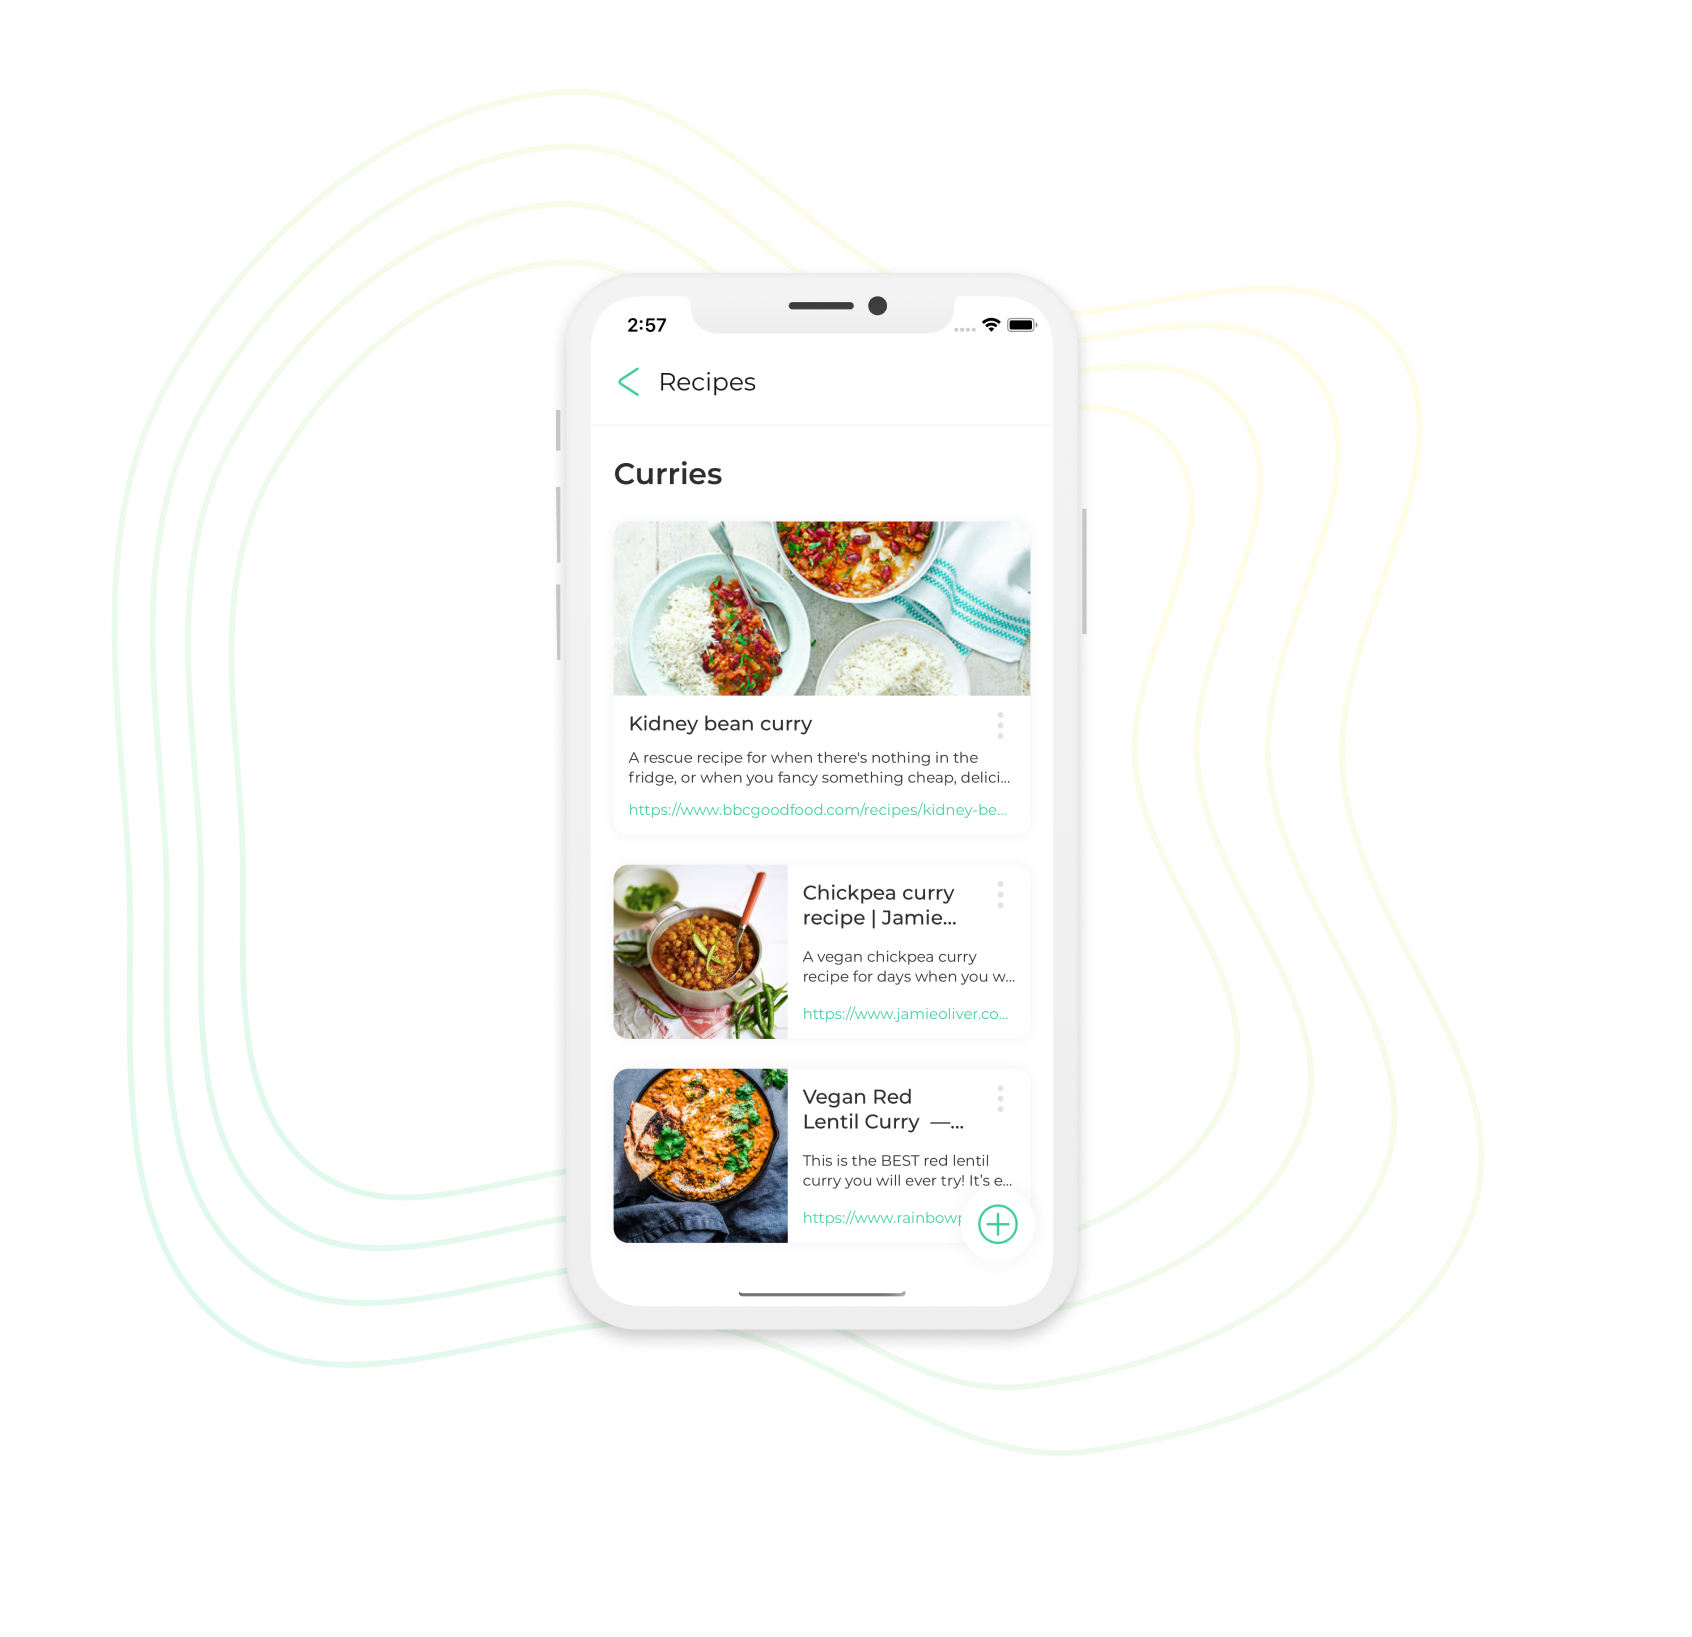
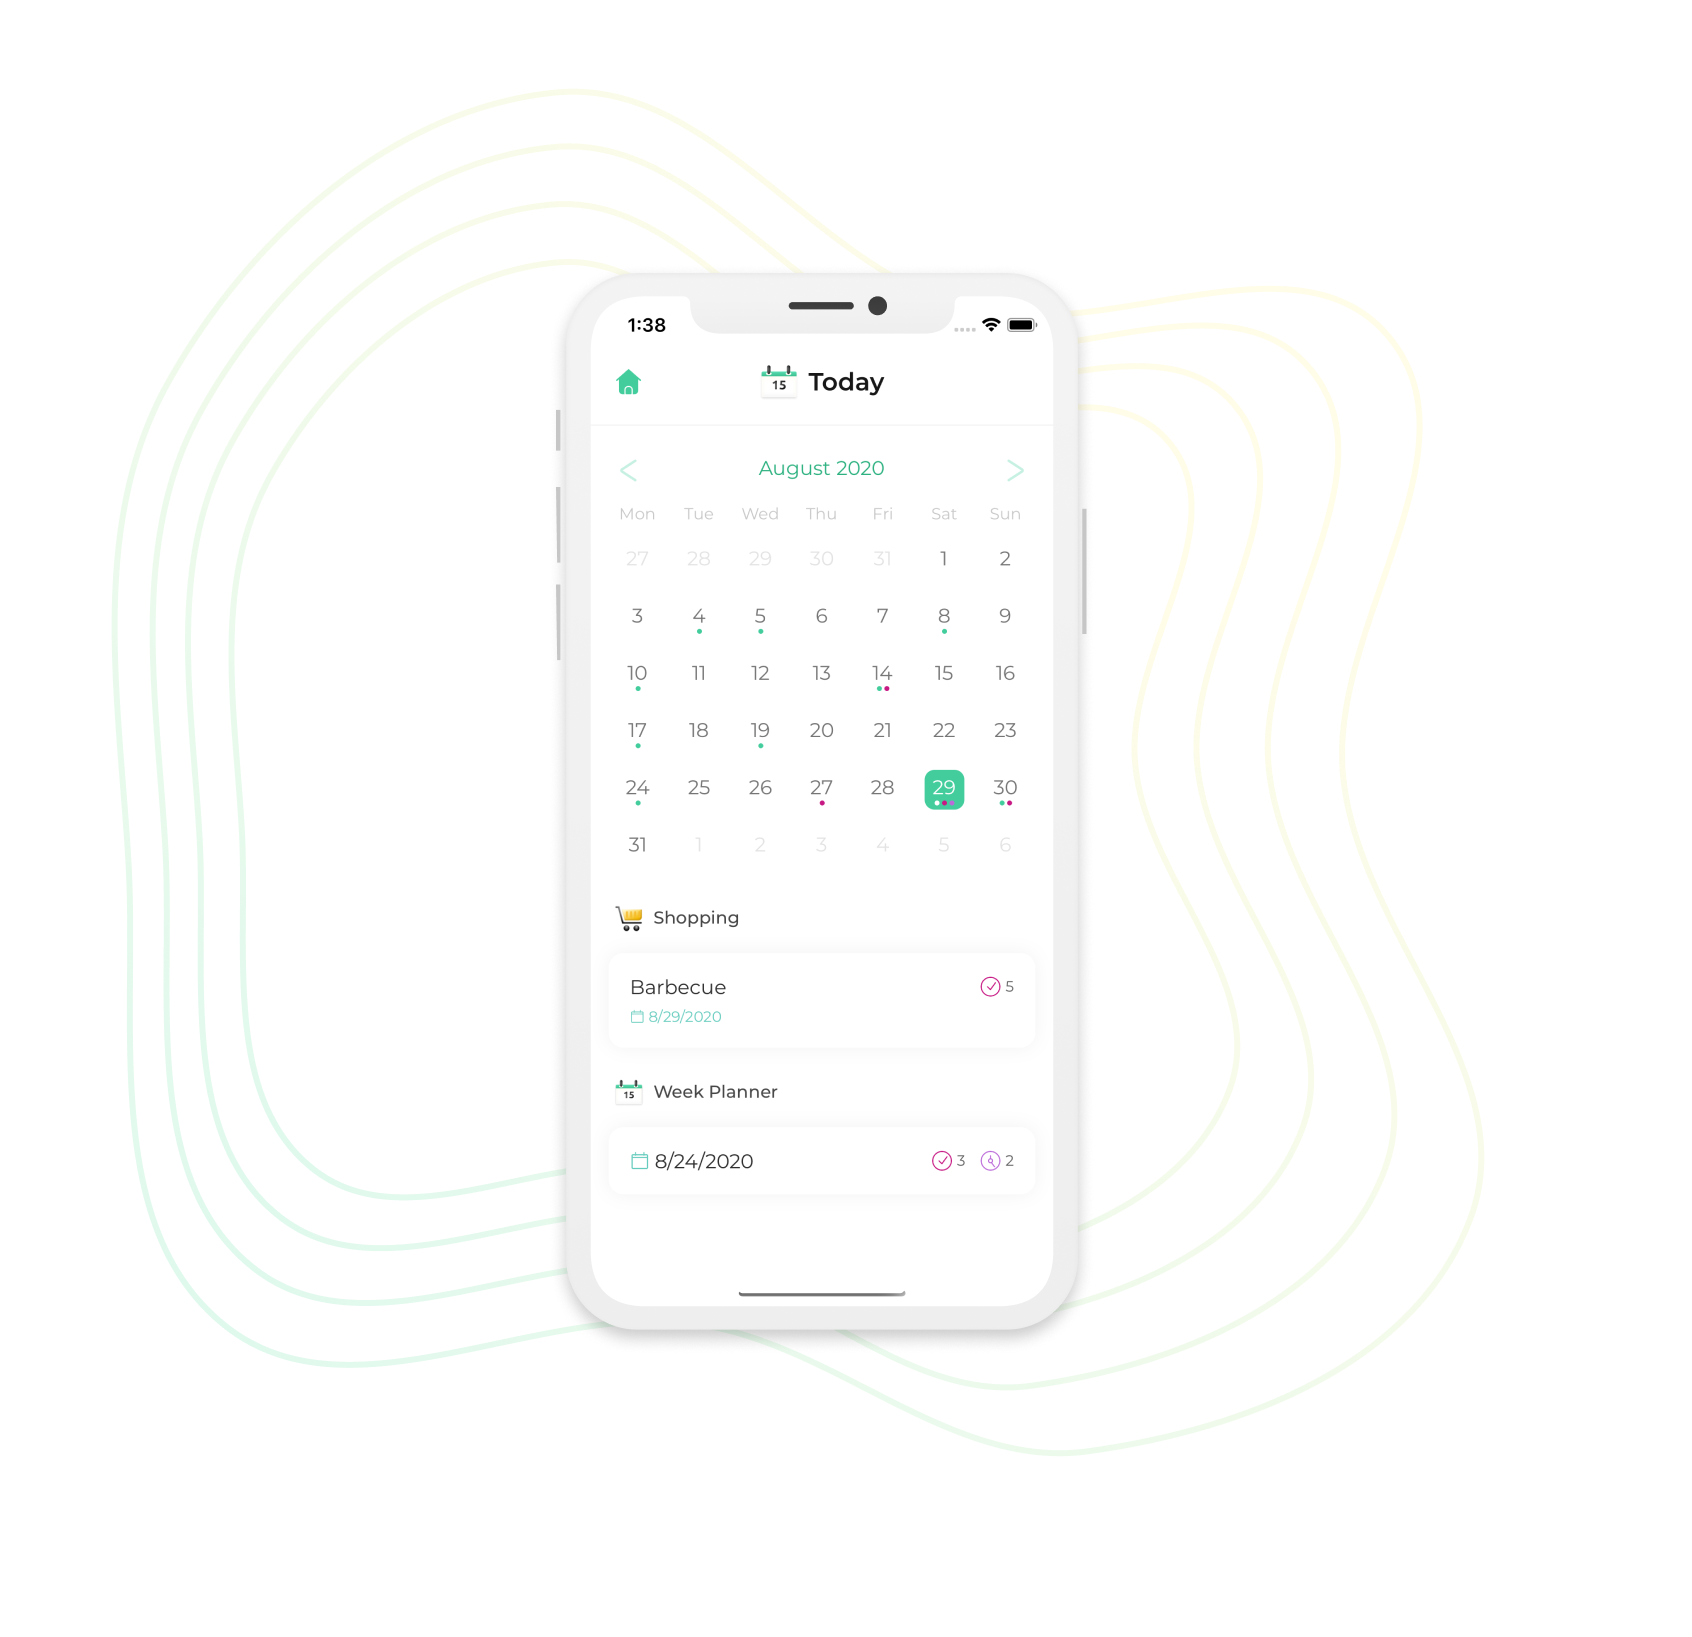
Update screenshots and texts

Changed region(s): [[0.3381, 0.2804, 0.6147, 0.4985], [0.3381, 0.5296, 0.5839, 0.7789], [0.3688, 0.1869, 0.5225, 0.2492]]

diff --git a/index.html b/index.html
@@ -13,6 +13,7 @@
         <meta charset="utf-8">
         <meta name="viewport" content="width=device-width, initial-scale=1, shrink-to-fit=no">
         <meta http-equiv="x-ua-compatible" content="ie=edge">
+        <meta name="apple-itunes-app" content="app-id=1465608442">
 
         <title>Saga Notes - Home</title>
         <link rel="icon" type="image/png" href="assets/images/favicon.png" />
@@ -168,7 +169,7 @@
                                 Saga Notes
                             </h1>
                             <h2 class="subtitle is-5">
-                                Stay Organized
+                                Simply Organized
                             </h2>
                             <a href="https://apps.apple.com/us/app/saga-notes/id1465608442">
                               <img class="store-badge" src="assets/images/app-store-badge-en.svg">
@@ -194,7 +195,7 @@
                                 <div class="bg-number"></div>
                             </div>
                             <!-- /Title -->
-                            <span class="section-feature-description">Saga Notes is the app about you. It makes it easy to capture your thoughts, keep a journal and plan your life.</span>
+                            <span class="section-feature-description">Saga makes it easy to stay organized. Plan your days and weeks, create todo and shopping lists, reflect and journal. With dates and times the calendar creates a stunning overview of your activities.</span>
                         </div>
                         <div class="column is-3 is-offset-2">
                             <!-- Featured illustration -->
@@ -333,11 +334,11 @@
                         <div class="column is-4 is-offset-1 is-hidden-tablet is-hidden-desktop">
                             <!-- Title -->
                             <div class="title is-handwritten text-bold">
-                                <div>Link Previews</div>
+                                <div>Calendar</div>
                                 <div class="bg-number"></div>
                             </div>
                             <!-- /Title -->
-                            <span class="section-feature-description">Paste a link into a note and you will get a beautiful preview. Choose between different card styles or use a simple link.</span>
+                            <span class="section-feature-description">Add dates to your notes with todos and time entries and you will get a overview over your activities in the calendar for each day.</span>
                         </div>
                         <!-- /so the original floww is kept -->
                         <div class="column is-8">
@@ -349,11 +350,11 @@
                         <div class="column is-4 is-hidden-mobile">
                             <!-- Title -->
                             <div class="title is-handwritten text-bold">
-                                <div>Link Previews</div>
+                                <div>Calendar</div>
                                 <div class="bg-number"></div>
                             </div>
                             <!-- /Title -->
-                            <span class="section-feature-description">Paste a link into a note and you will get a beautiful preview. Choose between different card styles or use a simple link.</span>
+                            <span class="section-feature-description">Add dates to your notes with todos and time entries and you will get a overview over your activities in the calendar for each day.</span>
                         </div>
                         <!-- /so the original flow is kept -->
                     </div>

diff --git a/terms/index.html b/terms/index.html
@@ -13,6 +13,7 @@
         <meta charset="utf-8">
         <meta name="viewport" content="width=device-width, initial-scale=1, shrink-to-fit=no">
         <meta http-equiv="x-ua-compatible" content="ie=edge">
+        <meta name="apple-itunes-app" content="app-id=1465608442">
 
         <title>Saga Notes - Terms and Conditions</title>
         <link rel="icon" type="image/png" href="../assets/images/favicon.png" />

diff --git a/privacy/index.html b/privacy/index.html
@@ -13,6 +13,7 @@
         <meta charset="utf-8">
         <meta name="viewport" content="width=device-width, initial-scale=1, shrink-to-fit=no">
         <meta http-equiv="x-ua-compatible" content="ie=edge">
+        <meta name="apple-itunes-app" content="app-id=1465608442">
 
         <title>Saga Notes - Privacy Policy</title>
         <link rel="icon" type="image/png" href="../assets/images/favicon.png" />

diff --git a/legal/index.html b/legal/index.html
@@ -13,6 +13,7 @@
         <meta charset="utf-8">
         <meta name="viewport" content="width=device-width, initial-scale=1, shrink-to-fit=no">
         <meta http-equiv="x-ua-compatible" content="ie=edge">
+        <meta name="apple-itunes-app" content="app-id=1465608442">
 
         <title>Saga Notes - Le</title>
         <link rel="icon" type="image/png" href="../assets/images/favicon.png" />
